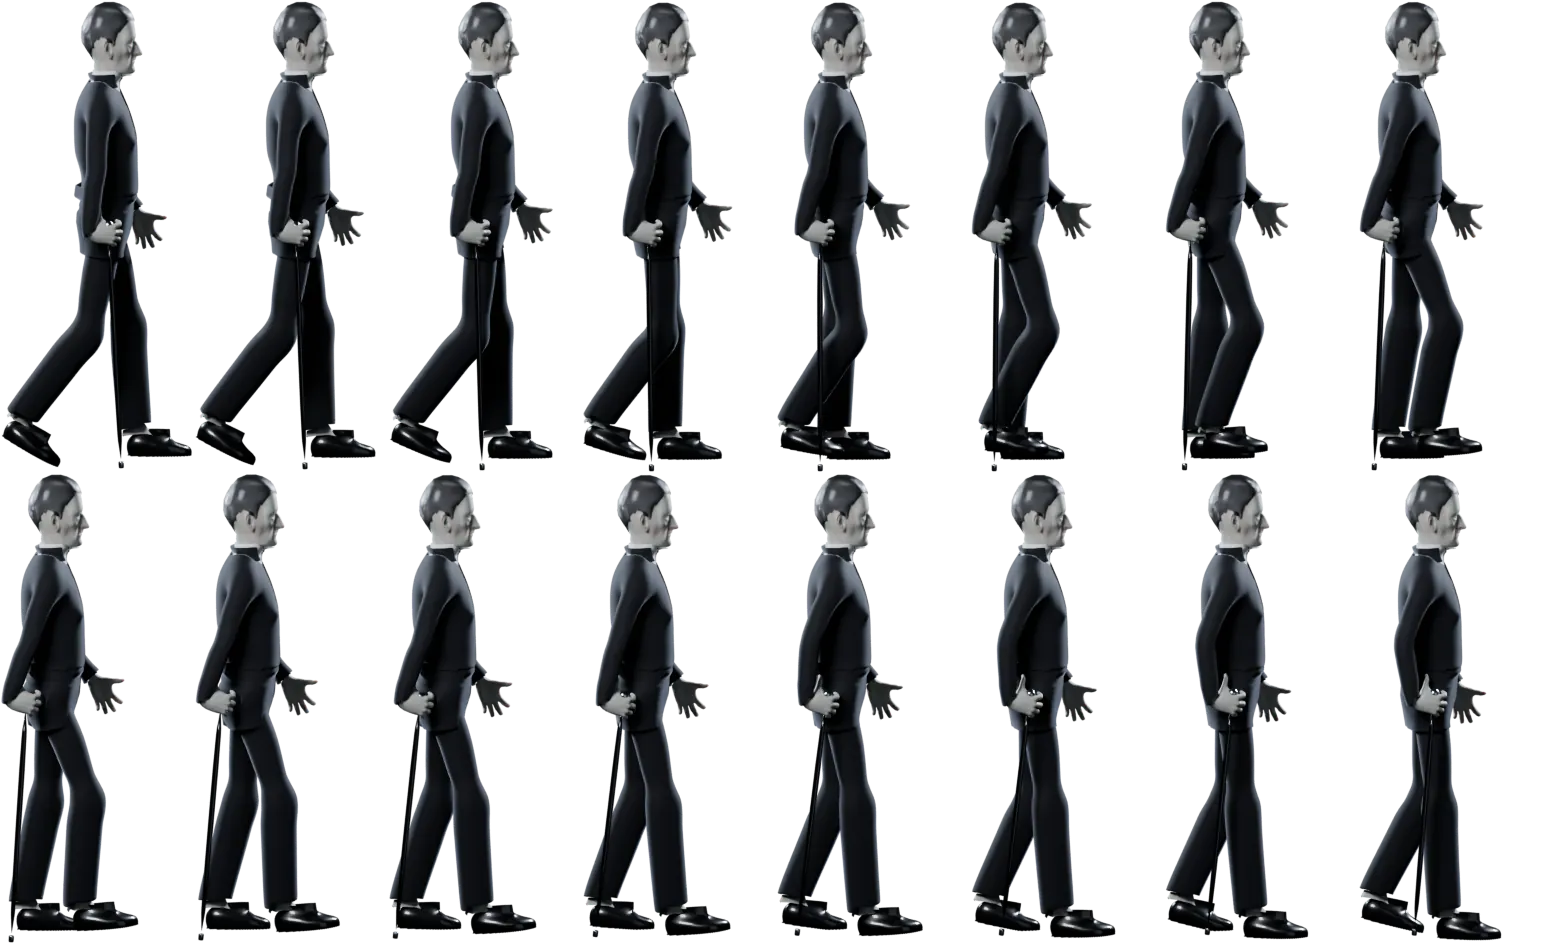
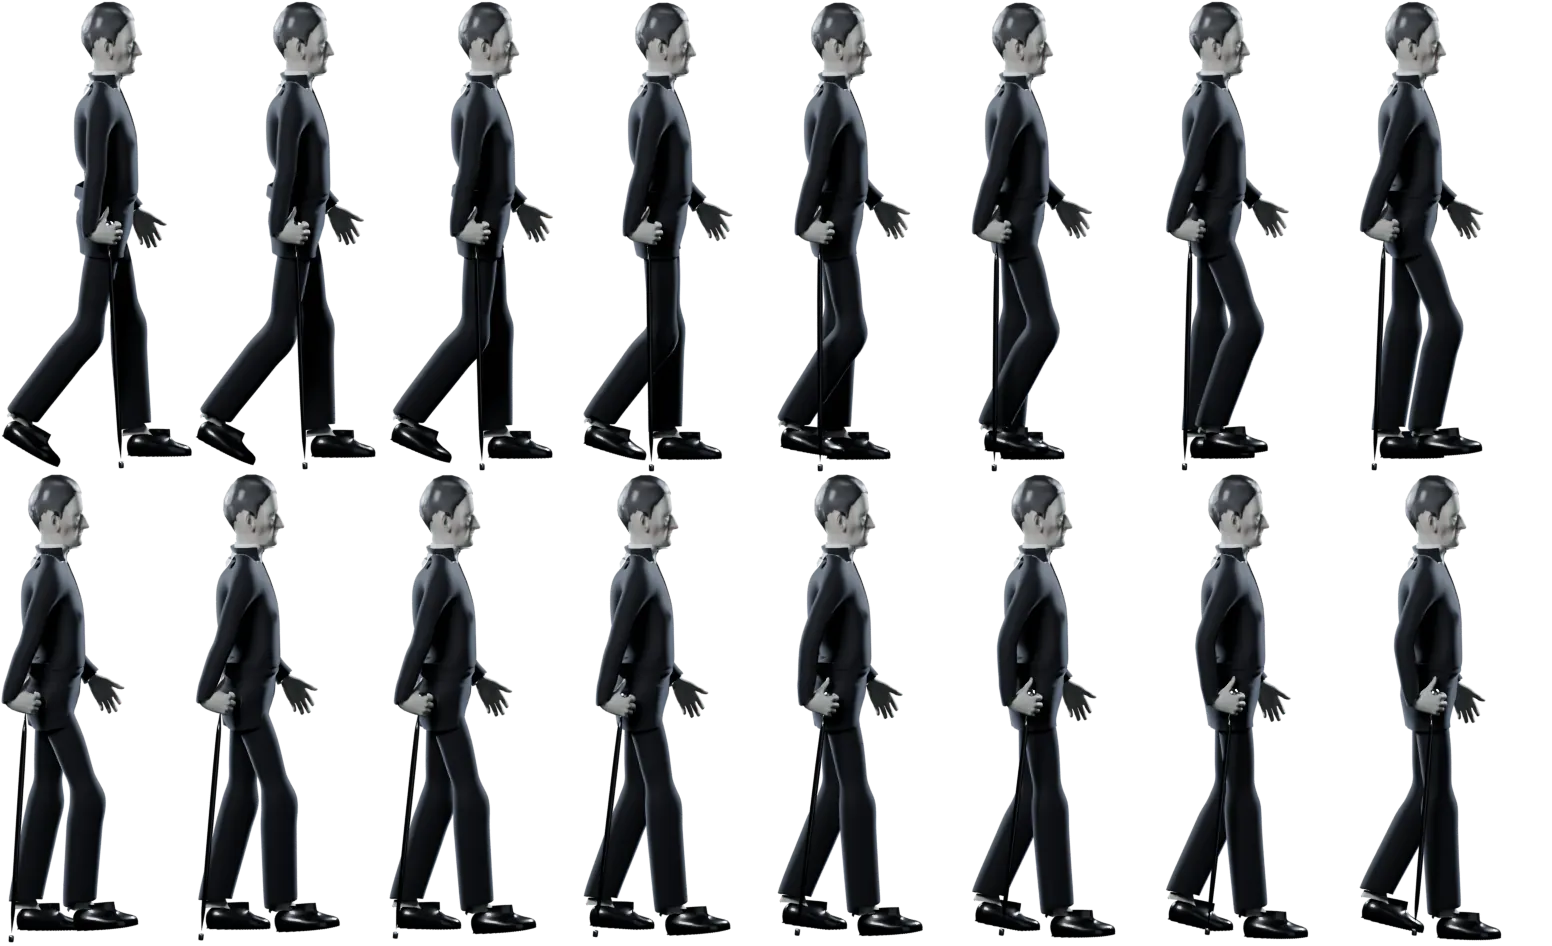
Death's jacket hangs flat, and his hands rest naturally
His jacket followed his chest muscles into two lit mounds; it now hangs
flat across the chest. His free hand kept the body model's rest pose,
palm turned back and fingers fanned out; it now hangs at ease with the
wrist in line, fingers together and softly curled, and his hands close
over the cane's knob instead of lying splayed on it.

diff --git a/scripts/art/death_motion.py b/scripts/art/death_motion.py
@@ -116,6 +116,7 @@ class Plant:
 class Motion:
     def __init__(self, person, sole):
         b = person.bodyd
+        self.tails = b.tails
         self.p = person
         self.sk, self.heads, self.J, self.H = b.sk, b.heads, b.J, b.height
         self.idx = self.sk.index
@@ -179,6 +180,46 @@ class Motion:
         # Hanging at his side, the palm faces his thigh.
         inward = np.array([-np.sign(w[0]), 0.0, 0.0])
         return dict(M0=np.column_stack([f, a, n]), sign=1.0 if n @ inward > 0 else -1.0, wrist=w, pc=(w + k) / 2)
+
+    def fingers(self, R, s, curl):
+        """His fingers drawn together (the body's rest pose fans them out like
+        a starfish) and curled `curl` (0 open, 1 a fist), the thumb tucked
+        toward the index finger."""
+        h, tl, i = self.heads, self.tails, self.idx
+        d = {f: unit(tl[i[f"finger{f}-1.{s}"]] - h[i[f"finger{f}-1.{s}"]]) for f in range(1, 6)}
+        sg = 1.0 if s == "L" else -1.0
+        for f in range(1, 6):
+            if f == 1:
+                together = wb.between(d[1], unit(0.55 * d[1] + 0.45 * d[2]))
+            elif f == 3:
+                together = np.eye(3)
+            else:
+                together = wb.between(d[f], unit(0.3 * d[f] + 0.7 * d[3]))
+            for k in range(1, 4):
+                bone = f"finger{f}-{k}.{s}"
+                if f == 1:
+                    c = rot(y=sg * 18.0 * curl if k == 1 else 0.0, x=-22.0 * curl)
+                else:
+                    c = rot(y=sg * (30.0 if k == 1 else 42.0) * curl)
+                R[bone] = c @ together if k == 1 else c
+        return R
+
+    def relax_hand(self, R, root, s, curl=0.4, flex=10.0):
+        """A hand hanging at ease: in line with the forearm, bent a little
+        toward the palm, the palm facing his thigh, fingers together and
+        softly curled."""
+        D = self.fk(R, root)
+        E = self.at(D, f"lowerarm01.{s}", self.heads[self.idx[f"lowerarm01.{s}"]])
+        Wr = self.at(D, f"wrist.{s}", self.heads[self.idx[f"wrist.{s}"]])
+        fore = unit(Wr - E)
+        side = 1.0 if s == "L" else -1.0
+        medial = -side * root[:3, 0]
+        palm = unit(medial - (medial @ fore) * fore)
+        a = math.radians(flex)
+        fingers = unit(fore * math.cos(a) + palm * math.sin(a))
+        G = self.hand_turn(s, fingers, palm)
+        R[f"wrist.{s}"] = D[self.sk.parent[self.idx[f"wrist.{s}"]]][:3, :3].T @ G
+        return self.fingers(R, s, curl)
 
     def hand_turn(self, s, fingers, palm):
         """The rotation (rest -> posed) that points a hand's fingers along
@@ -581,7 +622,6 @@ class Motion:
                 "lowerarm01.L": rot(x=-12.0),
             }
             R, _ = wc._blend((Rs, np.eye(4)), (Rw, np.eye(4)), w)
-            wm.curl(R, "L", 0.5)
             return R
 
         def on_knob(t):
@@ -640,6 +680,8 @@ class Motion:
             for s, out_x in (("L", 1.0), ("R", -1.0)):
                 A, G, toe, _ = self.foot_at(s, plants[s], t)
                 self.step(R, root, s, A, G, toe, fwd + yaw(psi) @ np.array([0.12 * out_x, 0.0, 0.0]))
+            # His free hand hangs at ease.
+            self.relax_hand(R, root, "L", 0.42)
             # The cane, and his right hand on it: carried in his fist, or (facing
             # you) his palm resting on the knob.
             tip, top = cane_at(t, psi)
@@ -655,7 +697,8 @@ class Motion:
             # (Carrying it, his elbow points back; resting on it, out to the side.)
             pole_r = lerp((-0.5, 1.0, -0.1), (-0.85, 0.5, -0.15), k)
             self.reach(R, root, "R", lerp(grip, on, k), lerp(f_grip, yaw(psi) @ f_body, k), lerp(n_grip, -u_cane, k), yaw(psi) @ pole_r)
-            wm.curl(R, "R", 0.88 - 0.33 * k)
+            # A fist round the shaft; resting on the knob, fingers closed over it.
+            self.fingers(R, "R", 0.9 - 0.3 * k)
             # His left hand comes to rest on his right, and leaves it again.
             if t_hands <= t < t_back:
                 if left_from is None:
@@ -672,6 +715,7 @@ class Motion:
                 else:
                     if left_back is None:
                         R0 = upper(t_back)
+                        self.relax_hand(R0, root, "L", 0.42)
                         left_back = (self.palm_of(R0, root, "L"), *self.hand_dirs(R0, root, "L"))
                     u = (t - t_release) / nI
                     e = 1.0 - smoother(u)
@@ -679,7 +723,8 @@ class Motion:
                     lift = bump(u)
                 target = lerp(start[0], on, e) + np.array([0.0, 0.0, 0.035]) * lift
                 self.reach(R, root, "L", target, lerp(start[1], on_dirs[0], e), lerp(start[2], on_dirs[1], e), yaw(psi) @ np.array([0.85, 0.5, -0.15]))
-                wm.curl(R, "L", 0.5 - 0.26 * e)
+                # Resting on his right hand, the fingers lie together over it.
+                self.fingers(R, "L", 0.42 + 0.2 * e)
             rec = None
             if fi < tw:
                 pass

diff --git a/scripts/art/death_dress.py b/scripts/art/death_dress.py
@@ -452,8 +452,22 @@ def _jacket(self, color):
         grow = np.maximum(0.0, target - rv) * hang
         dirs = np.stack([V[:, 0], V[:, 1] - cyw], 1) / np.maximum(rv, 1e-6)[:, None]
         V[:, :2] += dirs * grow[:, None]
+    # A man's jacket hangs flat across the chest: it does not follow the
+    # muscles into two mounds with a hollow between them. At each height its
+    # front is a shallow curve through the most forward point of the chest,
+    # and the cloth is let out to it (never drawn in).
+    lim_u = limbs[used]
+    chest_zone = (V[:, 1] < cyw) & (V[:, 2] > self.belt_z - 0.02) & (V[:, 2] < nz - 0.015) & (lim_u < 0.25)
+    for zz in np.arange(self.belt_z - 0.02, nz - 0.015, 0.01):
+        band = chest_zone & (np.abs(V[:, 2] - zz) < 0.006)
+        core = band & (np.abs(V[:, 0]) < 0.11)
+        if core.sum() < 3:
+            continue
+        y_peak = float(V[core, 1].min())
+        target = y_peak + 1.1 * V[band, 0] ** 2
+        V[band, 1] = np.minimum(V[band, 1], target)
     V = bridge(V, Q, N, iterations=60, soften=14)
-    y_front = float(J["chest"][1]) - 0.03
+    y_front =float(J["chest"][1]) - 0.03
     self.skirt_cy = float(J["pelvis"][1]) + 0.005
     mat = jacket(color, self.v_bottom, nz, y_front, self.skirt_cy, self.hem_z)
     self.jacket_mat = mat
